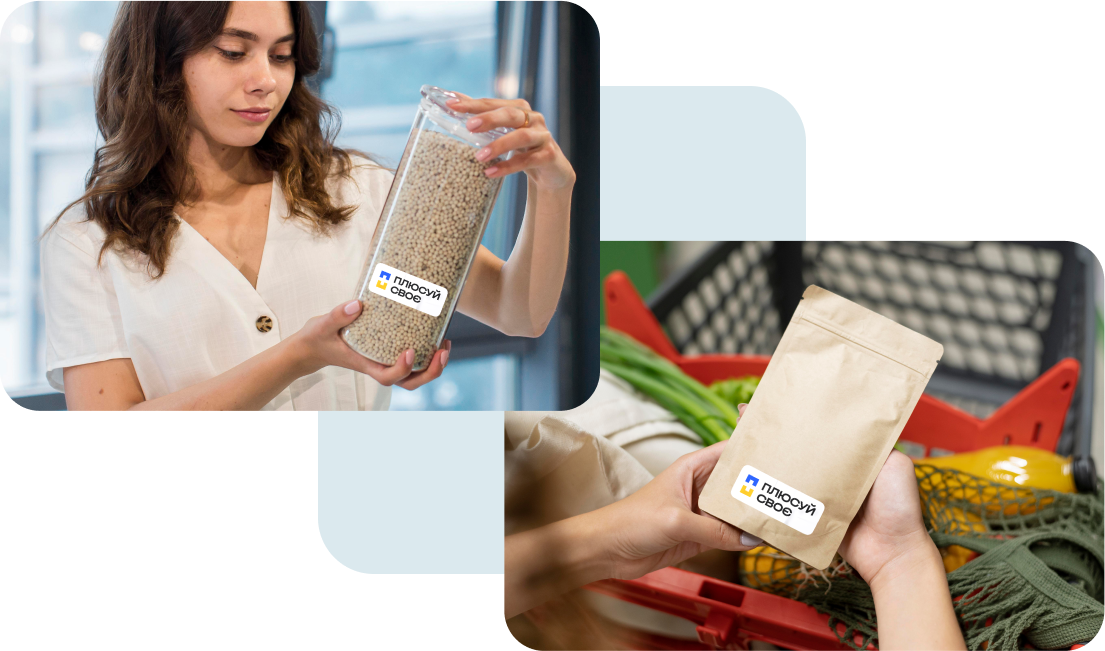
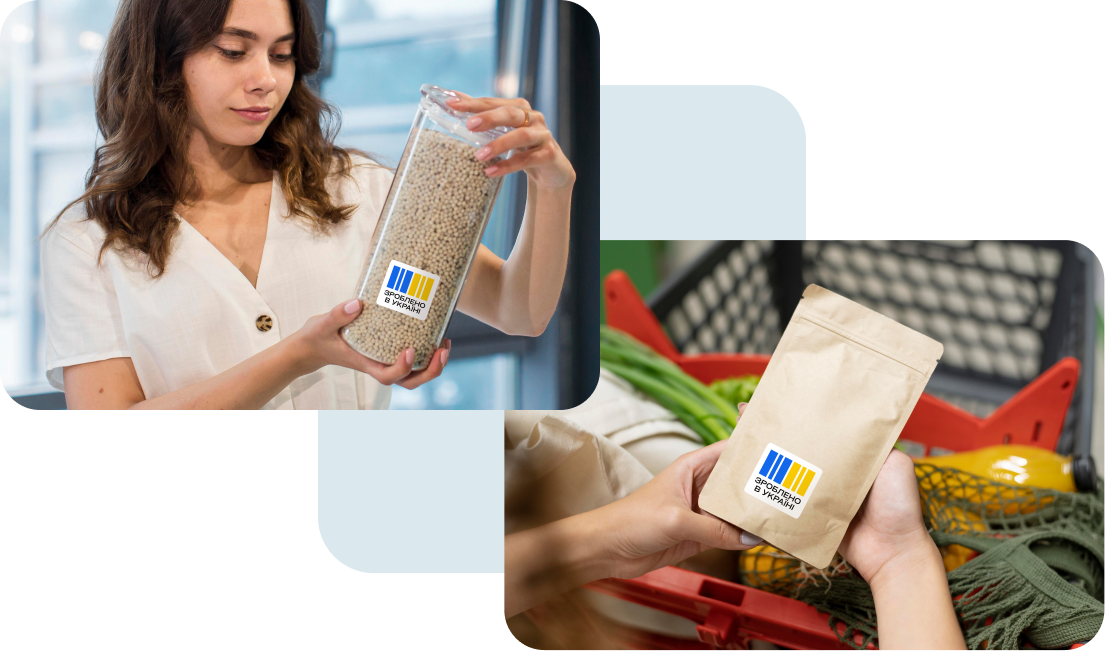
updates

diff --git a/public/css/generator.css b/public/css/generator.css
@@ -1,1 +1,1 @@
-#workshop{background-color:#dbe9ee}@media only screen and (max-width: 991px){.workshop-container{padding-left:0;padding-right:0}}.workshop-title{font-size:22px;line-height:28px;margin-bottom:15px}.workshop-title-wrap{text-align:center;margin-bottom:20px}@media only screen and (min-width: 992px){.workshop-title-wrap{max-width:550px;margin-left:auto;margin-right:auto;margin-bottom:30px}}@media only screen and (min-width: 992px){.workshop-title{margin-bottom:20px}}.workshop-subtitle{line-height:22px}@media only screen and (min-width: 992px){.workshop-subtitle{line-height:32px}}.workshop-form{position:relative;margin:20px 0;z-index:2}@media only screen and (min-width: 992px){.workshop-form{margin:30px 0}}.workshop-form-wrap{background-color:#fff;border-radius:20px 20px 0 0;padding:34px 20px 20px;max-width:864px;margin-right:auto;margin-left:auto}@media only screen and (min-width: 992px){.workshop-form-wrap{padding:40px 50px}}.workshop-form-submit{max-width:334px}.workshop-form-submit>*{pointer-events:none}.workshop-form-last{display:flex;flex-direction:column;row-gap:20px;margin-top:20px}@media only screen and (min-width: 768px){.workshop-form-last{flex-direction:row;justify-content:space-between;align-items:center;margin-top:30px}}.workshop-form-text{font-size:16px;line-height:20px;color:#0054ea;max-width:252px}.workshop-form-text-success,.workshop-form-text--check.active .workshop-form-text-wating{display:none}.workshop-form-text--check.active .workshop-form-text-success{display:inline-block}.workshop-form-checkbox{position:relative;flex:none;width:50px;height:50px;border:2px solid #CBDADF;border-radius:8px;cursor:pointer;appearance:none;-moz-appearance:none;-webkit-appearance:none}.workshop-form-checkbox-wrap{display:flex}.workshop-form-checkbox-wrap:hover input{border-color:#bdcbd1}.workshop-form-checkbox:after{content:"";position:absolute;top:4px;left:4px;width:38px;height:38px;border-radius:4px;background-color:#fff}.workshop-form-checkbox:before{content:""}.workshop-form-checkbox[type=checkbox]:checked:after{background-color:#000}.workshop-form-colors-block{display:flex;gap:14px}.workshop-form-colors-wrap{display:flex;gap:10px}.workshop-form-row{display:grid;grid-template-columns:1fr;row-gap:15px}@media only screen and (min-width: 768px){.workshop-form-row{grid-template-columns:276px 1fr;column-gap:20px;margin-bottom:20px}}@media only screen and (min-width: 768px){.workshop-form-row-1{grid-template-columns:276px 1fr}}@media only screen and (min-width: 768px){.workshop-form-row-2{grid-template-columns:1fr 1fr}}@media only screen and (min-width: 768px){.workshop-form-row-3{grid-template-columns:1fr 1fr}}.workshop-info{font-size:12px;line-height:18px;opacity:.6;font-weight:300;color:#000}.workshop-info-wrap{margin-bottom:15px}@media only screen and (min-width: 992px){.workshop-info-wrap{margin-bottom:30px}}.workshop-share-wrap{margin-bottom:40px}@media only screen and (min-width: 992px){.workshop-share-wrap{position:fixed;top:140px;display:flex;justify-content:space-between;left:0;right:0;margin-bottom:0}}@media (min-width: 992px){.workshop-share-container{display:flex;justify-content:space-between;width:100%;padding-right:8px;padding-left:8px;margin-right:auto;margin-left:auto}}@media (min-width: 1200px){.workshop-share-container{max-width:1400px;padding-right:20px;padding-left:20px}}@media only screen and (min-width: 992px){.workshop-share-right,.workshop-share-right-top{display:flex;flex-direction:column;align-items:flex-end}.workshop-share-right.active .workshop-share-right-top{display:none}.workshop-share-right.active .workshop-share-btns{display:flex}}.workshop-share-left,.workshop-share-top-btn,.workshop-share-close{display:none}@media only screen and (min-width: 992px){.workshop-share-left,.workshop-share-top-btn,.workshop-share-close{display:block}}@media only screen and (min-width: 992px){.workshop-share-close:hover path{fill:#0054ea}}.workshop-share-btns{display:flex;gap:10px}@media only screen and (min-width: 992px){.workshop-share-btns{display:none;flex-direction:column;align-items:center}}.workshop-share-text{font-size:18px;line-height:22px;padding-bottom:10px;display:inline-block}@media only screen and (min-width: 992px){.workshop-share-text{padding-bottom:0;padding-top:10px}}@media only screen and (min-width: 992px){.workshop .share-button{background-color:#fff}.workshop .share-button:not(.btn-share) path{fill:#000}.workshop .share-button:not(.btn-share):hover{background-color:#0054ea}.workshop .share-button:not(.btn-share):hover path{fill:#fff}.workshop .share-button.btn-share path{fill:#fff;stroke:#000}.workshop .share-button.btn-share:hover{background-color:#0054ea}.workshop .share-button.btn-share:hover path{stroke:#fff;fill:#0054ea}}.exemples-section{padding-bottom:30px}.exemples-title{font-size:22px;line-height:28px}@media only screen and (min-width: 992px){.exemples-title{font-size:28px;line-height:34px}}.exemples-title-wrap{margin-bottom:16px}@media only screen and (min-width: 992px){.exemples-title-wrap{margin-bottom:26px}}.exemples-body{display:flex;overflow:auto}@media only screen and (max-width: 767px){.exemples-body{margin-left:-20px;width:calc(100% + 40px);padding:0 10px}}.exemples-content{display:flex;gap:10px}@media only screen and (min-width: 768px){.exemples-content{gap:20px;display:grid;grid-template-columns:1fr 1fr}}.exemples-img{height:inherit}.exemples-img-wrap{height:168px;width:max-content;border-radius:14px;overflow:hidden}@media only screen and (min-width: 768px){.exemples-img-wrap{height:auto;width:100%}}.generator{margin-left:auto;margin-right:auto;width:334px;height:168px;background-color:#0054ea;border-radius:12px;padding:20px;position:relative}@media only screen and (min-width: 768px) and (max-width: 991px){.generator{width:501px;height:252px;border-radius:28px;padding:30px}}@media only screen and (min-width: 992px){.generator{width:100%;height:382px;border-radius:28px;padding:46px}}.generator-title{font-size:19px;line-height:22px;color:#fff;width:135px;display:inline-block;font-weight:500}@media only screen and (min-width: 768px) and (max-width: 991px){.generator-title{width:202.5px;line-height:33px;font-size:28.5px}}@media only screen and (min-width: 992px){.generator-title{width:305px;font-size:44px;line-height:44px}}.generator-logo{position:absolute;bottom:20px;left:20px;width:100%;max-width:88px}@media only screen and (min-width: 768px) and (max-width: 991px){.generator-logo{max-width:132px;bottom:30px;left:30px}}@media only screen and (min-width: 992px){.generator-logo{width:100%;max-width:200px;bottom:46px;left:46px}}.generator-logo svg{width:100%;height:100%;fill:#fff}.generator-logo path,.generator-logo rect{fill:inherit}.generator-border-img{width:108px;position:absolute;right:38px;top:20px;bottom:20px}@media only screen and (min-width: 768px) and (max-width: 991px){.generator-border-img{width:162px;right:57px;top:30px;bottom:30px}}@media only screen and (min-width: 992px){.generator-border-img{width:248px;right:88px;top:45px;bottom:45px}}.generator-border-img svg{width:100%;height:100%}.generator-border-img path,.generator-border-img rect{fill:inherit}.generator-product{width:128px;position:absolute;right:28px;top:10px;bottom:10px;display:flex;align-items:center;justify-content:center;overflow:hidden}@media only screen and (min-width: 768px) and (max-width: 991px){.generator-product{width:192px;right:42px;top:15px;bottom:15px}}@media only screen and (min-width: 992px){.generator-product{width:300px;right:62px;top:20px;bottom:20px}}.generator-product img{max-height:100%}.generator--inversion .generator-title{color:#000}.generator--inversion .generator-logo svg{fill:#000}
+#workshop{background-color:#dbe9ee}@media only screen and (max-width: 991px){.workshop-container{padding-left:0;padding-right:0}}.workshop-title{font-size:22px;line-height:28px;margin-bottom:15px}.workshop-title-wrap{text-align:center;margin-bottom:20px}@media only screen and (min-width: 992px){.workshop-title-wrap{max-width:550px;margin-left:auto;margin-right:auto;margin-bottom:30px}}@media only screen and (min-width: 992px){.workshop-title{margin-bottom:20px}}.workshop-subtitle{line-height:22px}@media only screen and (min-width: 992px){.workshop-subtitle{line-height:32px}}.workshop-form{position:relative;margin:20px 0;z-index:2}@media only screen and (min-width: 992px){.workshop-form{margin:30px 0}}.workshop-form-wrap{background-color:#fff;border-radius:20px 20px 0 0;padding:34px 20px 20px;max-width:864px;margin-right:auto;margin-left:auto}@media only screen and (min-width: 992px){.workshop-form-wrap{padding:40px 50px}}.workshop-form-submit{max-width:334px}.workshop-form-submit>*{pointer-events:none}.workshop-form-last{display:flex;flex-direction:column;row-gap:20px;margin-top:20px}@media only screen and (min-width: 768px){.workshop-form-last{flex-direction:row;justify-content:space-between;align-items:center;margin-top:30px}}.workshop-form-text{font-size:16px;line-height:20px;color:#0054ea;max-width:252px}.workshop-form-text-success,.workshop-form-text--check.active .workshop-form-text-wating{display:none}.workshop-form-text--check.active .workshop-form-text-success{display:inline-block}.workshop-form-checkbox{position:relative;flex:none;width:50px;height:50px;border:2px solid #CBDADF;border-radius:8px;cursor:pointer;appearance:none;-moz-appearance:none;-webkit-appearance:none}.workshop-form-checkbox-wrap{display:flex}.workshop-form-checkbox-wrap:hover input{border-color:#bdcbd1}.workshop-form-checkbox:after{content:"";position:absolute;top:4px;left:4px;width:38px;height:38px;border-radius:4px;background-color:#fff}.workshop-form-checkbox:before{content:""}.workshop-form-checkbox[type=checkbox]:checked:after{background-color:#000}.workshop-form-colors-block{display:flex;gap:14px}.workshop-form-colors-wrap{display:flex;gap:10px}.workshop-form-row{display:grid;grid-template-columns:1fr;row-gap:15px}@media only screen and (min-width: 768px){.workshop-form-row{grid-template-columns:276px 1fr;column-gap:20px;margin-bottom:20px}}@media only screen and (min-width: 768px){.workshop-form-row-1{grid-template-columns:276px 1fr}}@media only screen and (min-width: 768px){.workshop-form-row-2{grid-template-columns:1fr 1fr}}@media only screen and (min-width: 768px){.workshop-form-row-3{grid-template-columns:1fr 1fr}}.workshop-info{font-size:12px;line-height:18px;opacity:.6;font-weight:300;color:#000}.workshop-info-wrap{margin-bottom:15px}@media only screen and (min-width: 992px){.workshop-info-wrap{margin-bottom:30px}}.workshop-share-wrap{margin-bottom:40px}@media only screen and (min-width: 992px){.workshop-share-wrap{position:fixed;top:140px;display:flex;justify-content:space-between;left:0;right:0;margin-bottom:0}}@media (min-width: 992px){.workshop-share-container{display:flex;justify-content:space-between;width:100%;padding-right:8px;padding-left:8px;margin-right:auto;margin-left:auto}}@media (min-width: 1200px){.workshop-share-container{max-width:1400px;padding-right:20px;padding-left:20px}}@media only screen and (min-width: 992px){.workshop-share-right,.workshop-share-right-top{display:flex;flex-direction:column;align-items:flex-end}.workshop-share-right.active .workshop-share-right-top{display:none}.workshop-share-right.active .workshop-share-btns{display:flex}}.workshop-share-left,.workshop-share-top-btn,.workshop-share-close{display:none}@media only screen and (min-width: 992px){.workshop-share-left,.workshop-share-top-btn,.workshop-share-close{display:block}}@media only screen and (min-width: 992px){.workshop-share-close:hover path{fill:#0054ea}}.workshop-share-btns{display:flex;gap:10px}@media only screen and (min-width: 992px){.workshop-share-btns{display:none;flex-direction:column;align-items:center}}.workshop-share-text{font-size:18px;line-height:22px;padding-bottom:10px;display:inline-block}@media only screen and (min-width: 992px){.workshop-share-text{padding-bottom:0;padding-top:10px}}@media only screen and (min-width: 992px){.workshop .share-button{background-color:#fff}.workshop .share-button:not(.btn-share) path{fill:#000}.workshop .share-button:not(.btn-share):hover{background-color:#0054ea}.workshop .share-button:not(.btn-share):hover path{fill:#fff}.workshop .share-button.btn-share path{fill:#fff;stroke:#000}.workshop .share-button.btn-share:hover{background-color:#0054ea}.workshop .share-button.btn-share:hover path{stroke:#fff;fill:#0054ea}}.exemples-section{padding-bottom:30px}.exemples-title{font-size:22px;line-height:28px}@media only screen and (min-width: 992px){.exemples-title{font-size:28px;line-height:34px}}.exemples-title-wrap{margin-bottom:16px}@media only screen and (min-width: 992px){.exemples-title-wrap{margin-bottom:26px}}.exemples-body{display:flex;overflow:auto}@media only screen and (max-width: 767px){.exemples-body{margin-left:-20px;width:calc(100% + 40px);padding:0 10px}}.exemples-content{display:flex;gap:10px}@media only screen and (min-width: 768px){.exemples-content{gap:20px;display:grid;grid-template-columns:1fr 1fr}}.exemples-img{height:inherit}.exemples-img-wrap{height:168px;width:max-content;border-radius:14px;overflow:hidden}@media only screen and (min-width: 768px){.exemples-img-wrap{height:auto;width:100%}}.generator{margin-left:auto;margin-right:auto;width:334px;height:168px;background-color:#0054ea;border-radius:12px;padding:20px;position:relative}@media only screen and (min-width: 768px) and (max-width: 991px){.generator{width:501px;height:252px;border-radius:28px;padding:30px}}@media only screen and (min-width: 992px){.generator{width:100%;height:382px;border-radius:28px;padding:46px}}.generator-title{font-size:18px;line-height:22px;color:#fff;width:130px;display:inline-block;font-weight:500}@media only screen and (min-width: 768px) and (max-width: 991px){.generator-title{width:195px;line-height:33px;font-size:27px}}@media only screen and (min-width: 992px){.generator-title{width:300px;font-size:44px;line-height:44px}}.generator-logo{position:absolute;width:100%;max-width:64px;bottom:18%;right:35%;z-index:1;transform:rotate(8deg)}@media only screen and (min-width: 768px) and (max-width: 991px){.generator-logo{max-width:96px}}@media only screen and (min-width: 992px){.generator-logo{width:100%;max-width:150px}}.generator-logo-sticker{width:100%;height:100%;display:block}.generator-logo svg{width:100%;height:100%;fill:#fff}.generator-logo path,.generator-logo rect{fill:inherit}.generator-border-img{width:108px;position:absolute;right:38px;top:20px;bottom:20px}@media only screen and (min-width: 768px) and (max-width: 991px){.generator-border-img{width:162px;right:57px;top:30px;bottom:30px}}@media only screen and (min-width: 992px){.generator-border-img{width:248px;right:88px;top:45px;bottom:45px}}.generator-border-img svg{width:100%;height:100%}.generator-border-img path,.generator-border-img rect{fill:inherit}.generator-product{width:128px;position:absolute;right:28px;top:10px;bottom:10px;display:flex;align-items:center;justify-content:center;overflow:hidden}@media only screen and (min-width: 768px) and (max-width: 991px){.generator-product{width:192px;right:42px;top:15px;bottom:15px}}@media only screen and (min-width: 992px){.generator-product{width:300px;right:62px;top:20px;bottom:20px}}.generator-product img{max-height:100%}.generator--inversion .generator-title{color:#000}.generator--inversion .generator-logo svg{fill:#000}

diff --git a/public/js/generator.js b/public/js/generator.js
@@ -19,7 +19,8 @@ const removePreviewImg = (e) =>{
     const formImg = document.querySelector('.workshop-form [name="image"]');
     const formMultiplier = document.querySelector('.workshop-form [name="multiplier"]');
     const textInfo = document.querySelector('.workshop-form-text--check');
-
+    const submitBtn = document.querySelector('.workshop-form-submit');
+    
 
     const getText = formImg.dataset.text;
 
@@ -27,8 +28,9 @@ const removePreviewImg = (e) =>{
         productImg.remove();
         formImg.classList.remove('active');
         textInfo.classList.remove('active');
+        submitBtn.disabled = true;
         formImg.nextElementSibling.querySelector('.input-img-text').textContent = getText;
-
+        
         formMultiplier.setAttribute('disabled','');
         wImg = '';
         hImg = '';
@@ -83,11 +85,11 @@ const validatorForm = (_key) => {
             valid = false;
             if(!_key){
                 document.querySelector(`.workshop-form [name="${_d[0]}"]`).classList.add('field-error');
-            }
+            }            
         }
 
 
-
+        
     }
 
     if(_key){
@@ -115,7 +117,7 @@ const phone_number_mask = (e) => {
     let myOutPut = ""
     let theLastPos = 4;
     myText = ''+myCaja.value?.length < 2 ? myMask+myCaja.value : myCaja.value;
-
+  
     //get numbers
     for (let i = 2; i < myText.length; i++) {
       if (!isNaN(myText.charAt(i)) && myText.charAt(i) != " ") {
@@ -124,7 +126,7 @@ const phone_number_mask = (e) => {
     }
     //write over mask
     for (let j = 0; j < myMask.length; j++) {
-      if (myMask.charAt(j) == "_") { //replace "_" by a number
+      if (myMask.charAt(j) == "_") { //replace "_" by a number 
         if (myNumbers.length == 0)
           myOutPut = myOutPut + myMask.charAt(j);
         else {
@@ -140,7 +142,7 @@ const phone_number_mask = (e) => {
   }
 
   async function fetchGeneratorJSON(bodyData) {
-    const response = await window.fetch('/image-generation/generate',
+    const response = await window.fetch('https://plus.buyperlink.com/image-generation/generate',
     {
         method: 'POST',
         body: bodyData,
@@ -160,7 +162,7 @@ const formFunction = () => {
     const generatorProductWrap = document.getElementById('generator-product');
     const generatorText = document.getElementById('generator-text');
 	const generatorTitle = document.querySelector('.generator-title');
-
+	
     const generatorBorder = document.querySelector('.generator-border-img svg');
 	const generatorLogo = document.querySelector('.generator-logo svg');
 
@@ -173,10 +175,12 @@ const formFunction = () => {
     const textInfo = document.querySelector('.workshop-form-text--check');
 
     const btnCloseImg = document.querySelector('.workshop-form .input-img-close-icon');
-
+	
     const formEmail = document.querySelector('.workshop-form [name="email"]');
     const formPhone = document.querySelector('.workshop-form [name="phone"]');
     const submitBtn = document.querySelector('.workshop-form-submit');
+
+
 
     const previewFile = () => {
 
@@ -184,6 +188,7 @@ const formFunction = () => {
         const reader = new FileReader();
 
         reader.onloadend = function() {
+            const productImg = document.getElementById('product-img');
             //preview.src = reader.result;
 
             let img = new Image();
@@ -191,6 +196,11 @@ const formFunction = () => {
             img.id = 'product-img';
             //img.width=176;
             //img.height=310;
+            
+            if (productImg) {
+                productImg.remove();
+            }
+
             generatorProductWrap.appendChild(img);
             formImg.classList.add('active');
             textInfo.classList.add('active');
@@ -207,8 +217,7 @@ const formFunction = () => {
         if (file) {
             reader.readAsDataURL(file);
         } else {
-            removePreviewImg();
-
+            //removePreviewImg();
         }
 
         validatorForm('_');
@@ -248,7 +257,7 @@ const formFunction = () => {
         if(e.target.classList.contains('field-error')){
             e.target.classList.remove('field-error');
         }
-
+       
         if (!val) {
             generatorText.innerText = '...'
         } else {
@@ -316,10 +325,10 @@ const formFunction = () => {
     formName.addEventListener('input', previewTextHandler);
     formName.addEventListener('blur', onBlurHandler);
 
-
+	
     formBgColor.addEventListener('input', chageColorBg);
 
-
+	
     formBoderColor.addEventListener('input', chageColorBorder);
 
 	formCheckDark.addEventListener('change', isDarkText);
@@ -331,7 +340,7 @@ const formFunction = () => {
 
     formPhone.addEventListener('blur', onBlurHandler);
     formPhone.addEventListener('input', phone_number_mask);
-
+    
 
     submitBtn.addEventListener('click', async (e) => {
         e.preventDefault();
@@ -339,7 +348,10 @@ const formFunction = () => {
 
         if(!res){return null;}
 
+
+
         const _target = e.target;
+                console.log('_target',_target);
         _target.disabled = true;
         _target.classList.add('btn--load');
 
@@ -366,7 +378,7 @@ const formFunction = () => {
                 throw new Error('Empty image');
             }
             window.open(res.url);
-
+            
         }catch(e){
             window.alert('Error')
         }finally{

diff --git a/public/css/baner.css b/public/css/baner.css
@@ -1,1 +1,1 @@
-.body-child{padding:0}.generator{width:1920px;height:1080px;background-color:#0054ea;border-radius:0;padding:120px;position:relative;position:absolute;top:0;left:0}.generator svg{width:100%;height:auto}.generator-parent{position:relative;width:max-content}.generator-parent>img{opacity:0}.generator-title{font-size:110px;line-height:normal;color:#fff;width:50%;display:inline-block;font-weight:500}.generator-logo{position:absolute;bottom:110px;left:110px;width:514px}.generator-logo svg{fill:#fff}.generator-logo path,.generator-logo rect{fill:inherit}.generator-border-img{width:626px;height:auto;position:absolute;right:218px;top:174px}.generator-border-img path,.generator-border-img rect{fill:inherit}.generator-product{width:706px;position:absolute;right:180px;top:80px;bottom:80px;display:flex;align-items:center;justify-content:center;overflow:hidden}.generator-product img{max-height:100%}.generator--inversion .generator-title{color:#000}.generator--inversion .generator-logo svg{fill:#000}
+.body-child{padding:0}.generator{width:1920px;height:1080px;background-color:#0054ea;border-radius:0;padding:120px;position:relative;position:absolute;top:0;left:0}.generator svg{width:100%;height:auto}.generator-parent{position:relative;width:max-content}.generator-parent>img{opacity:0}.generator-title{font-size:110px;line-height:normal;color:#fff;width:43%;display:inline-block;font-weight:500}.generator-logo{position:absolute;width:100%;max-width:376px;bottom:18%;right:35%;z-index:1;transform:rotate(8deg)}.generator-logo-sticker{width:100%;height:100%;display:block}.generator-logo svg{fill:#fff}.generator-logo path,.generator-logo rect{fill:inherit}.generator-border-img{width:626px;height:auto;position:absolute;right:218px;top:174px}.generator-border-img path,.generator-border-img rect{fill:inherit}.generator-product{width:706px;position:absolute;right:180px;top:80px;bottom:80px;display:flex;align-items:center;justify-content:center;overflow:hidden}.generator-product img{max-height:100%}.generator--inversion .generator-title{color:#000}.generator--inversion .generator-logo svg{fill:#000}

diff --git a/resources/views/app/image-generator/generator.blade.php b/resources/views/app/image-generator/generator.blade.php
@@ -47,43 +47,7 @@
                             </svg>
                         </div>
                         <div class="generator-logo">
-                            <svg width="219" height="65" viewBox="0 0 219 65" fill="none"
-                                 xmlns="http://www.w3.org/2000/svg">
-                                <path d="M0 7.79248V30.4993H11.3334V19.147H22.6646V30.4993H33.998V7.79248H0Z"
-                                      fill="white"></path>
-                                <path d="M22.6646 41.8538V53.2082H11.3334V41.8538H0V64.5606H33.998V41.8538H22.6646Z"
-                                      fill="white"></path>
-                                <path
-                                    d="M74.8479 7.77979V30.5638H69.6475V12.469H57.758V30.5638H52.5576V7.77979H74.8479Z"
-                                    fill="white"></path>
-                                <path
-                                    d="M101.108 30.5638H95.9077V12.469H86.0632L85.8899 21.1167C85.8214 24.3121 85.1497 26.6846 83.8791 28.2363C82.6084 29.7879 80.6895 30.5638 78.1247 30.5638H76.2871V25.8745H77.1535C78.5867 25.8745 79.5921 25.493 80.1697 24.7279C80.7473 23.9628 81.0468 22.6212 81.0703 20.6988L81.2778 7.77979H101.106V30.5638H101.108Z"
-                                    fill="white"></path>
-                                <path
-                                    d="M134.256 8.78683C136.267 9.73625 137.82 11.0907 138.92 12.8503C140.017 14.6098 140.567 16.6715 140.567 19.0333V19.3462C140.567 21.708 140.017 23.7633 138.92 25.5099C137.822 27.2588 136.267 28.6068 134.256 29.5562C132.246 30.5056 129.888 30.9793 127.184 30.9793C124.78 30.9793 122.636 30.5978 120.754 29.8327C118.869 29.0697 117.34 27.9746 116.161 26.5515C114.982 25.1285 114.232 23.4439 113.909 21.4979H109.887V30.5635H104.687V7.77954H109.887V16.8451H113.909C114.232 14.9013 114.982 13.2167 116.161 11.7915C117.34 10.3685 118.871 9.27333 120.754 8.51036C122.636 7.7474 124.78 7.36377 127.184 7.36377C129.888 7.36377 132.246 7.83955 134.256 8.78683ZM135.262 18.9969C135.262 16.8215 134.562 15.1413 133.165 13.9604C131.766 12.7795 129.773 12.1902 127.186 12.1902C124.6 12.1902 122.594 12.786 121.171 13.9797C119.751 15.1735 119.038 16.8451 119.038 18.999V19.4148C119.038 21.5687 119.744 23.2296 121.154 24.3976C122.564 25.5678 124.574 26.1507 127.186 26.1507C129.798 26.1507 131.826 25.5721 133.202 24.4148C134.577 23.2575 135.264 21.5901 135.264 19.4126V18.9969H135.262Z"
-                                    fill="white"></path>
-                                <path
-                                    d="M148.767 29.5563C146.688 28.6069 145.085 27.2588 143.964 25.51C142.843 23.7612 142.283 21.7187 142.283 19.3805V18.9991C142.283 16.6609 142.843 14.6184 143.964 12.8696C145.085 11.1208 146.685 9.76631 148.767 8.80617C150.846 7.84604 153.261 7.36597 156.012 7.36597C158.554 7.36597 160.836 7.78174 162.86 8.61543C164.881 9.44912 166.464 10.6064 167.609 12.0895C168.753 13.5726 169.324 15.2378 169.324 17.0916V17.3703H164.021V17.0916C164.021 16.1422 163.679 15.2978 162.999 14.5563C162.316 13.8147 161.369 13.2361 160.156 12.8203C158.943 12.4045 157.55 12.1945 155.978 12.1945C153.227 12.1945 151.141 12.7732 149.721 13.9305C148.3 15.0878 147.588 16.7552 147.588 18.9326V19.4534C147.588 21.6544 148.292 23.3197 149.702 24.4556C151.111 25.5914 153.214 26.1572 156.01 26.1572C158.436 26.1572 160.378 25.7114 161.833 24.8199C163.29 23.9283 164.017 22.7539 164.017 21.2944V21.0522H169.32V21.2944C169.32 23.1461 168.749 24.8092 167.604 26.2772C166.46 27.7475 164.877 28.9005 162.855 29.732C160.832 30.5657 158.551 30.9815 156.008 30.9815C153.257 30.9815 150.842 30.5078 148.763 29.5584L148.767 29.5563Z"
-                                    fill="white"></path>
-                                <path
-                                    d="M193.981 7.77979V8.57918L184.934 25.3537C183.894 27.2997 182.808 28.6542 181.676 29.4172C180.542 30.1823 179.053 30.5638 177.203 30.5638H172.176V25.8745H177.132C177.594 25.8745 177.969 25.8402 178.26 25.7695C178.549 25.7009 178.81 25.5723 179.041 25.388L168.918 8.57918V7.77979H174.36L181.918 20.8038L188.573 7.77979H193.981Z"
-                                    fill="white"></path>
-                                <path
-                                    d="M200.336 7.77968V23.4076L212.955 7.77968H218.155V30.5637H212.989V14.9357L200.37 30.5637H195.17V7.77968H200.336ZM200.995 4.42778C199.724 3.48907 199.089 2.10673 199.089 0.276468V0H203.457V0.278611C203.457 0.788684 203.735 1.18088 204.289 1.45949C204.843 1.73811 205.641 1.87527 206.681 1.87527C207.629 1.87527 208.362 1.73596 208.882 1.45949C209.402 1.18088 209.663 0.788684 209.663 0.278611V0H214.273V0.278611C214.273 3.98414 211.742 5.83583 206.681 5.83583C204.161 5.83583 202.266 5.36648 200.995 4.42992V4.42778Z"
-                                    fill="white"></path>
-                                <path
-                                    d="M58.0014 63.5726C55.9222 62.6232 54.3199 61.2752 53.199 59.5263C52.078 57.7775 51.5176 55.7351 51.5176 53.3969V53.0154C51.5176 50.6772 52.078 48.6348 53.199 46.886C54.3199 45.1371 55.92 43.7848 58.0014 42.8225C60.0807 41.8624 62.4959 41.3823 65.2468 41.3823C67.7882 41.3823 70.0707 41.7981 72.0944 42.6318C74.1159 43.4655 75.6989 44.6228 76.8433 46.1059C77.9878 47.5889 78.559 49.2542 78.559 51.108V51.3866H73.2559V51.108C73.2559 50.1586 72.9137 49.3142 72.2334 48.5726C71.551 47.8311 70.6034 47.2524 69.3904 46.8367C68.1775 46.4209 66.7849 46.2109 65.2126 46.2109C62.4616 46.2109 60.3759 46.7895 58.9555 47.9468C57.5351 49.1041 56.8227 50.7715 56.8227 52.9468V53.4676C56.8227 55.6687 57.5265 57.3339 58.9363 58.4698C60.346 59.6056 62.4488 60.1714 65.2447 60.1714C67.6705 60.1714 69.6129 59.7257 71.0676 58.8341C72.5243 57.9425 73.2517 56.7681 73.2517 55.3086V55.0664H78.5547V55.3086C78.5547 57.1603 77.9835 58.8212 76.8391 60.2936C75.6946 61.7638 74.1116 62.9147 72.0901 63.7484C70.0664 64.5821 67.786 65 65.2426 65C62.4916 65 60.0764 64.5263 57.9972 63.5769L58.0014 63.5726Z"
-                                    fill="white"></path>
-                                <path
-                                    d="M102.914 54.8906C103.468 55.7243 103.746 56.6973 103.746 57.8074V58.1889C103.746 60.1563 102.982 61.7144 101.457 62.8589C99.9316 64.0054 97.863 64.5777 95.2511 64.5777H81.0383V41.7937H94.5922C97.2726 41.7937 99.3476 42.3209 100.815 43.3732C102.283 44.4277 103.016 45.9021 103.016 47.801V48.1825C103.016 50.2206 102.171 51.7937 100.486 52.906C101.549 53.3925 102.357 54.0526 102.911 54.8863L102.914 54.8906ZM86.2387 46.3479V50.9321H94.558C96.7078 50.9321 97.7817 50.2271 97.7817 48.8147V48.4675C97.7817 47.7731 97.51 47.2459 96.9667 46.888C96.4233 46.5301 95.6318 46.3501 94.5922 46.3501H86.2387V46.3479ZM98.4406 57.4259C98.4406 55.99 97.3539 55.2721 95.1826 55.2721H86.2387V60.0299H95.1826C96.2222 60.0299 97.0244 59.8327 97.5913 59.4405C98.1582 59.0462 98.4406 58.4911 98.4406 57.7731V57.4259Z"
-                                    fill="white"></path>
-                                <path
-                                    d="M111.77 63.5726C109.735 62.6232 108.159 61.2687 107.038 59.5092C105.917 57.7497 105.356 55.7008 105.356 53.3626V53.0497C105.356 50.7115 105.917 48.6627 107.038 46.9031C108.159 45.1436 109.742 43.7827 111.787 42.8225C113.832 41.8624 116.206 41.3823 118.91 41.3823C121.614 41.3823 124.019 41.8624 126.051 42.8225C128.083 43.7848 129.655 45.1436 130.766 46.9031C131.876 48.6627 132.43 50.7115 132.43 53.0497V53.3626C132.43 55.7008 131.876 57.7518 130.766 59.5092C129.655 61.2687 128.085 62.6232 126.051 63.5726C124.017 64.5221 121.636 64.9957 118.91 64.9957C116.185 64.9957 113.802 64.5221 111.77 63.5726ZM125.03 58.4333C126.43 57.276 127.127 55.6086 127.127 53.4312V53.0154C127.127 50.8401 126.417 49.1599 124.994 47.979C123.574 46.7981 121.546 46.2087 118.91 46.2087C116.275 46.2087 114.213 46.7981 112.792 47.979C111.372 49.1599 110.659 50.838 110.659 53.0154V53.4312C110.659 55.6086 111.37 57.276 112.792 58.4333C114.213 59.5906 116.253 60.1693 118.91 60.1693C121.567 60.1693 123.631 59.5906 125.028 58.4333H125.03Z"
-                                    fill="white"></path>
-                                <path
-                                    d="M155.907 51.3822V51.2086C155.907 50.2142 155.565 49.3333 154.885 48.5682C154.202 47.8031 153.25 47.203 152.024 46.7616C150.799 46.3222 149.402 46.1015 147.83 46.1015C145.541 46.1015 143.71 46.5172 142.334 47.3509C140.959 48.1846 140.075 49.3891 139.681 50.9622H151.571V55.4071H139.681C140.051 56.9823 140.929 58.1846 142.317 59.0183C143.703 59.852 145.551 60.2678 147.864 60.2678C149.457 60.2678 150.863 60.0535 152.076 59.6248C153.289 59.1962 154.23 58.6068 154.902 57.8546C155.571 57.1023 155.907 56.2279 155.907 55.2335V55.0599H161.21V55.2335C161.21 57.0616 160.633 58.7247 159.477 60.2163C158.322 61.7101 156.726 62.8781 154.694 63.7247C152.66 64.5712 150.384 64.9913 147.864 64.9913C145.113 64.9913 142.704 64.5177 140.635 63.5682C138.567 62.6188 136.973 61.2708 135.852 59.5219C134.731 57.7731 134.171 55.7307 134.171 53.3925V53.011C134.171 50.6728 134.731 48.624 135.852 46.8644C136.973 45.1049 138.567 43.7504 140.635 42.801C142.704 41.8516 145.113 41.3779 147.864 41.3779C150.405 41.3779 152.688 41.8001 154.711 42.6467C156.733 43.4932 158.322 44.6677 159.477 46.1722C160.633 47.6767 161.21 49.3569 161.21 51.2086V51.3822H155.907Z"
-                                    fill="white"></path>
-                            </svg>
+                            <img class="generator-logo-sticker" src="/svg/sticker-logo.svg" alt="Maid in Ukraine">
                         </div>
                         <div class="generator-product" id="generator-product"></div>
                     </div>

diff --git a/resources/views/app/image-generator/banner.blade.php b/resources/views/app/image-generator/banner.blade.php
@@ -38,40 +38,7 @@
                 </svg>
             </div>
             <div class="generator-logo">
-                <svg width="219" height="65" viewBox="0 0 219 65" fill="none" xmlns="http://www.w3.org/2000/svg">
-                    <path d="M0 7.79248V30.4993H11.3334V19.147H22.6646V30.4993H33.998V7.79248H0Z" fill="white"></path>
-                    <path d="M22.6646 41.8538V53.2082H11.3334V41.8538H0V64.5606H33.998V41.8538H22.6646Z"
-                          fill="white"></path>
-                    <path d="M74.8479 7.77979V30.5638H69.6475V12.469H57.758V30.5638H52.5576V7.77979H74.8479Z"
-                          fill="white"></path>
-                    <path
-                        d="M101.108 30.5638H95.9077V12.469H86.0632L85.8899 21.1167C85.8214 24.3121 85.1497 26.6846 83.8791 28.2363C82.6084 29.7879 80.6895 30.5638 78.1247 30.5638H76.2871V25.8745H77.1535C78.5867 25.8745 79.5921 25.493 80.1697 24.7279C80.7473 23.9628 81.0468 22.6212 81.0703 20.6988L81.2778 7.77979H101.106V30.5638H101.108Z"
-                        fill="white"></path>
-                    <path
-                        d="M134.256 8.78683C136.267 9.73625 137.82 11.0907 138.92 12.8503C140.017 14.6098 140.567 16.6715 140.567 19.0333V19.3462C140.567 21.708 140.017 23.7633 138.92 25.5099C137.822 27.2588 136.267 28.6068 134.256 29.5562C132.246 30.5056 129.888 30.9793 127.184 30.9793C124.78 30.9793 122.636 30.5978 120.754 29.8327C118.869 29.0697 117.34 27.9746 116.161 26.5515C114.982 25.1285 114.232 23.4439 113.909 21.4979H109.887V30.5635H104.687V7.77954H109.887V16.8451H113.909C114.232 14.9013 114.982 13.2167 116.161 11.7915C117.34 10.3685 118.871 9.27333 120.754 8.51036C122.636 7.7474 124.78 7.36377 127.184 7.36377C129.888 7.36377 132.246 7.83955 134.256 8.78683ZM135.262 18.9969C135.262 16.8215 134.562 15.1413 133.165 13.9604C131.766 12.7795 129.773 12.1902 127.186 12.1902C124.6 12.1902 122.594 12.786 121.171 13.9797C119.751 15.1735 119.038 16.8451 119.038 18.999V19.4148C119.038 21.5687 119.744 23.2296 121.154 24.3976C122.564 25.5678 124.574 26.1507 127.186 26.1507C129.798 26.1507 131.826 25.5721 133.202 24.4148C134.577 23.2575 135.264 21.5901 135.264 19.4126V18.9969H135.262Z"
-                        fill="white"></path>
-                    <path
-                        d="M148.767 29.5563C146.688 28.6069 145.085 27.2588 143.964 25.51C142.843 23.7612 142.283 21.7187 142.283 19.3805V18.9991C142.283 16.6609 142.843 14.6184 143.964 12.8696C145.085 11.1208 146.685 9.76631 148.767 8.80617C150.846 7.84604 153.261 7.36597 156.012 7.36597C158.554 7.36597 160.836 7.78174 162.86 8.61543C164.881 9.44912 166.464 10.6064 167.609 12.0895C168.753 13.5726 169.324 15.2378 169.324 17.0916V17.3703H164.021V17.0916C164.021 16.1422 163.679 15.2978 162.999 14.5563C162.316 13.8147 161.369 13.2361 160.156 12.8203C158.943 12.4045 157.55 12.1945 155.978 12.1945C153.227 12.1945 151.141 12.7732 149.721 13.9305C148.3 15.0878 147.588 16.7552 147.588 18.9326V19.4534C147.588 21.6544 148.292 23.3197 149.702 24.4556C151.111 25.5914 153.214 26.1572 156.01 26.1572C158.436 26.1572 160.378 25.7114 161.833 24.8199C163.29 23.9283 164.017 22.7539 164.017 21.2944V21.0522H169.32V21.2944C169.32 23.1461 168.749 24.8092 167.604 26.2772C166.46 27.7475 164.877 28.9005 162.855 29.732C160.832 30.5657 158.551 30.9815 156.008 30.9815C153.257 30.9815 150.842 30.5078 148.763 29.5584L148.767 29.5563Z"
-                        fill="white"></path>
-                    <path
-                        d="M193.981 7.77979V8.57918L184.934 25.3537C183.894 27.2997 182.808 28.6542 181.676 29.4172C180.542 30.1823 179.053 30.5638 177.203 30.5638H172.176V25.8745H177.132C177.594 25.8745 177.969 25.8402 178.26 25.7695C178.549 25.7009 178.81 25.5723 179.041 25.388L168.918 8.57918V7.77979H174.36L181.918 20.8038L188.573 7.77979H193.981Z"
-                        fill="white"></path>
-                    <path
-                        d="M200.336 7.77968V23.4076L212.955 7.77968H218.155V30.5637H212.989V14.9357L200.37 30.5637H195.17V7.77968H200.336ZM200.995 4.42778C199.724 3.48907 199.089 2.10673 199.089 0.276468V0H203.457V0.278611C203.457 0.788684 203.735 1.18088 204.289 1.45949C204.843 1.73811 205.641 1.87527 206.681 1.87527C207.629 1.87527 208.362 1.73596 208.882 1.45949C209.402 1.18088 209.663 0.788684 209.663 0.278611V0H214.273V0.278611C214.273 3.98414 211.742 5.83583 206.681 5.83583C204.161 5.83583 202.266 5.36648 200.995 4.42992V4.42778Z"
-                        fill="white"></path>
-                    <path
-                        d="M58.0014 63.5726C55.9222 62.6232 54.3199 61.2752 53.199 59.5263C52.078 57.7775 51.5176 55.7351 51.5176 53.3969V53.0154C51.5176 50.6772 52.078 48.6348 53.199 46.886C54.3199 45.1371 55.92 43.7848 58.0014 42.8225C60.0807 41.8624 62.4959 41.3823 65.2468 41.3823C67.7882 41.3823 70.0707 41.7981 72.0944 42.6318C74.1159 43.4655 75.6989 44.6228 76.8433 46.1059C77.9878 47.5889 78.559 49.2542 78.559 51.108V51.3866H73.2559V51.108C73.2559 50.1586 72.9137 49.3142 72.2334 48.5726C71.551 47.8311 70.6034 47.2524 69.3904 46.8367C68.1775 46.4209 66.7849 46.2109 65.2126 46.2109C62.4616 46.2109 60.3759 46.7895 58.9555 47.9468C57.5351 49.1041 56.8227 50.7715 56.8227 52.9468V53.4676C56.8227 55.6687 57.5265 57.3339 58.9363 58.4698C60.346 59.6056 62.4488 60.1714 65.2447 60.1714C67.6705 60.1714 69.6129 59.7257 71.0676 58.8341C72.5243 57.9425 73.2517 56.7681 73.2517 55.3086V55.0664H78.5547V55.3086C78.5547 57.1603 77.9835 58.8212 76.8391 60.2936C75.6946 61.7638 74.1116 62.9147 72.0901 63.7484C70.0664 64.5821 67.786 65 65.2426 65C62.4916 65 60.0764 64.5263 57.9972 63.5769L58.0014 63.5726Z"
-                        fill="white"></path>
-                    <path
-                        d="M102.914 54.8906C103.468 55.7243 103.746 56.6973 103.746 57.8074V58.1889C103.746 60.1563 102.982 61.7144 101.457 62.8589C99.9316 64.0054 97.863 64.5777 95.2511 64.5777H81.0383V41.7937H94.5922C97.2726 41.7937 99.3476 42.3209 100.815 43.3732C102.283 44.4277 103.016 45.9021 103.016 47.801V48.1825C103.016 50.2206 102.171 51.7937 100.486 52.906C101.549 53.3925 102.357 54.0526 102.911 54.8863L102.914 54.8906ZM86.2387 46.3479V50.9321H94.558C96.7078 50.9321 97.7817 50.2271 97.7817 48.8147V48.4675C97.7817 47.7731 97.51 47.2459 96.9667 46.888C96.4233 46.5301 95.6318 46.3501 94.5922 46.3501H86.2387V46.3479ZM98.4406 57.4259C98.4406 55.99 97.3539 55.2721 95.1826 55.2721H86.2387V60.0299H95.1826C96.2222 60.0299 97.0244 59.8327 97.5913 59.4405C98.1582 59.0462 98.4406 58.4911 98.4406 57.7731V57.4259Z"
-                        fill="white"></path>
-                    <path
-                        d="M111.77 63.5726C109.735 62.6232 108.159 61.2687 107.038 59.5092C105.917 57.7497 105.356 55.7008 105.356 53.3626V53.0497C105.356 50.7115 105.917 48.6627 107.038 46.9031C108.159 45.1436 109.742 43.7827 111.787 42.8225C113.832 41.8624 116.206 41.3823 118.91 41.3823C121.614 41.3823 124.019 41.8624 126.051 42.8225C128.083 43.7848 129.655 45.1436 130.766 46.9031C131.876 48.6627 132.43 50.7115 132.43 53.0497V53.3626C132.43 55.7008 131.876 57.7518 130.766 59.5092C129.655 61.2687 128.085 62.6232 126.051 63.5726C124.017 64.5221 121.636 64.9957 118.91 64.9957C116.185 64.9957 113.802 64.5221 111.77 63.5726ZM125.03 58.4333C126.43 57.276 127.127 55.6086 127.127 53.4312V53.0154C127.127 50.8401 126.417 49.1599 124.994 47.979C123.574 46.7981 121.546 46.2087 118.91 46.2087C116.275 46.2087 114.213 46.7981 112.792 47.979C111.372 49.1599 110.659 50.838 110.659 53.0154V53.4312C110.659 55.6086 111.37 57.276 112.792 58.4333C114.213 59.5906 116.253 60.1693 118.91 60.1693C121.567 60.1693 123.631 59.5906 125.028 58.4333H125.03Z"
-                        fill="white"></path>
-                    <path
-                        d="M155.907 51.3822V51.2086C155.907 50.2142 155.565 49.3333 154.885 48.5682C154.202 47.8031 153.25 47.203 152.024 46.7616C150.799 46.3222 149.402 46.1015 147.83 46.1015C145.541 46.1015 143.71 46.5172 142.334 47.3509C140.959 48.1846 140.075 49.3891 139.681 50.9622H151.571V55.4071H139.681C140.051 56.9823 140.929 58.1846 142.317 59.0183C143.703 59.852 145.551 60.2678 147.864 60.2678C149.457 60.2678 150.863 60.0535 152.076 59.6248C153.289 59.1962 154.23 58.6068 154.902 57.8546C155.571 57.1023 155.907 56.2279 155.907 55.2335V55.0599H161.21V55.2335C161.21 57.0616 160.633 58.7247 159.477 60.2163C158.322 61.7101 156.726 62.8781 154.694 63.7247C152.66 64.5712 150.384 64.9913 147.864 64.9913C145.113 64.9913 142.704 64.5177 140.635 63.5682C138.567 62.6188 136.973 61.2708 135.852 59.5219C134.731 57.7731 134.171 55.7307 134.171 53.3925V53.011C134.171 50.6728 134.731 48.624 135.852 46.8644C136.973 45.1049 138.567 43.7504 140.635 42.801C142.704 41.8516 145.113 41.3779 147.864 41.3779C150.405 41.3779 152.688 41.8001 154.711 42.6467C156.733 43.4932 158.322 44.6677 159.477 46.1722C160.633 47.6767 161.21 49.3569 161.21 51.2086V51.3822H155.907Z"
-                        fill="white"></path>
-                </svg>
+                <img class="generator-logo-sticker" src="/svg/sticker-logo.svg" alt="Maid in Ukraine">
             </div>
             <div class="generator-product" id="generator-product">
                 <img src="/storage/{{ $banner->image }}" id="product-img">
